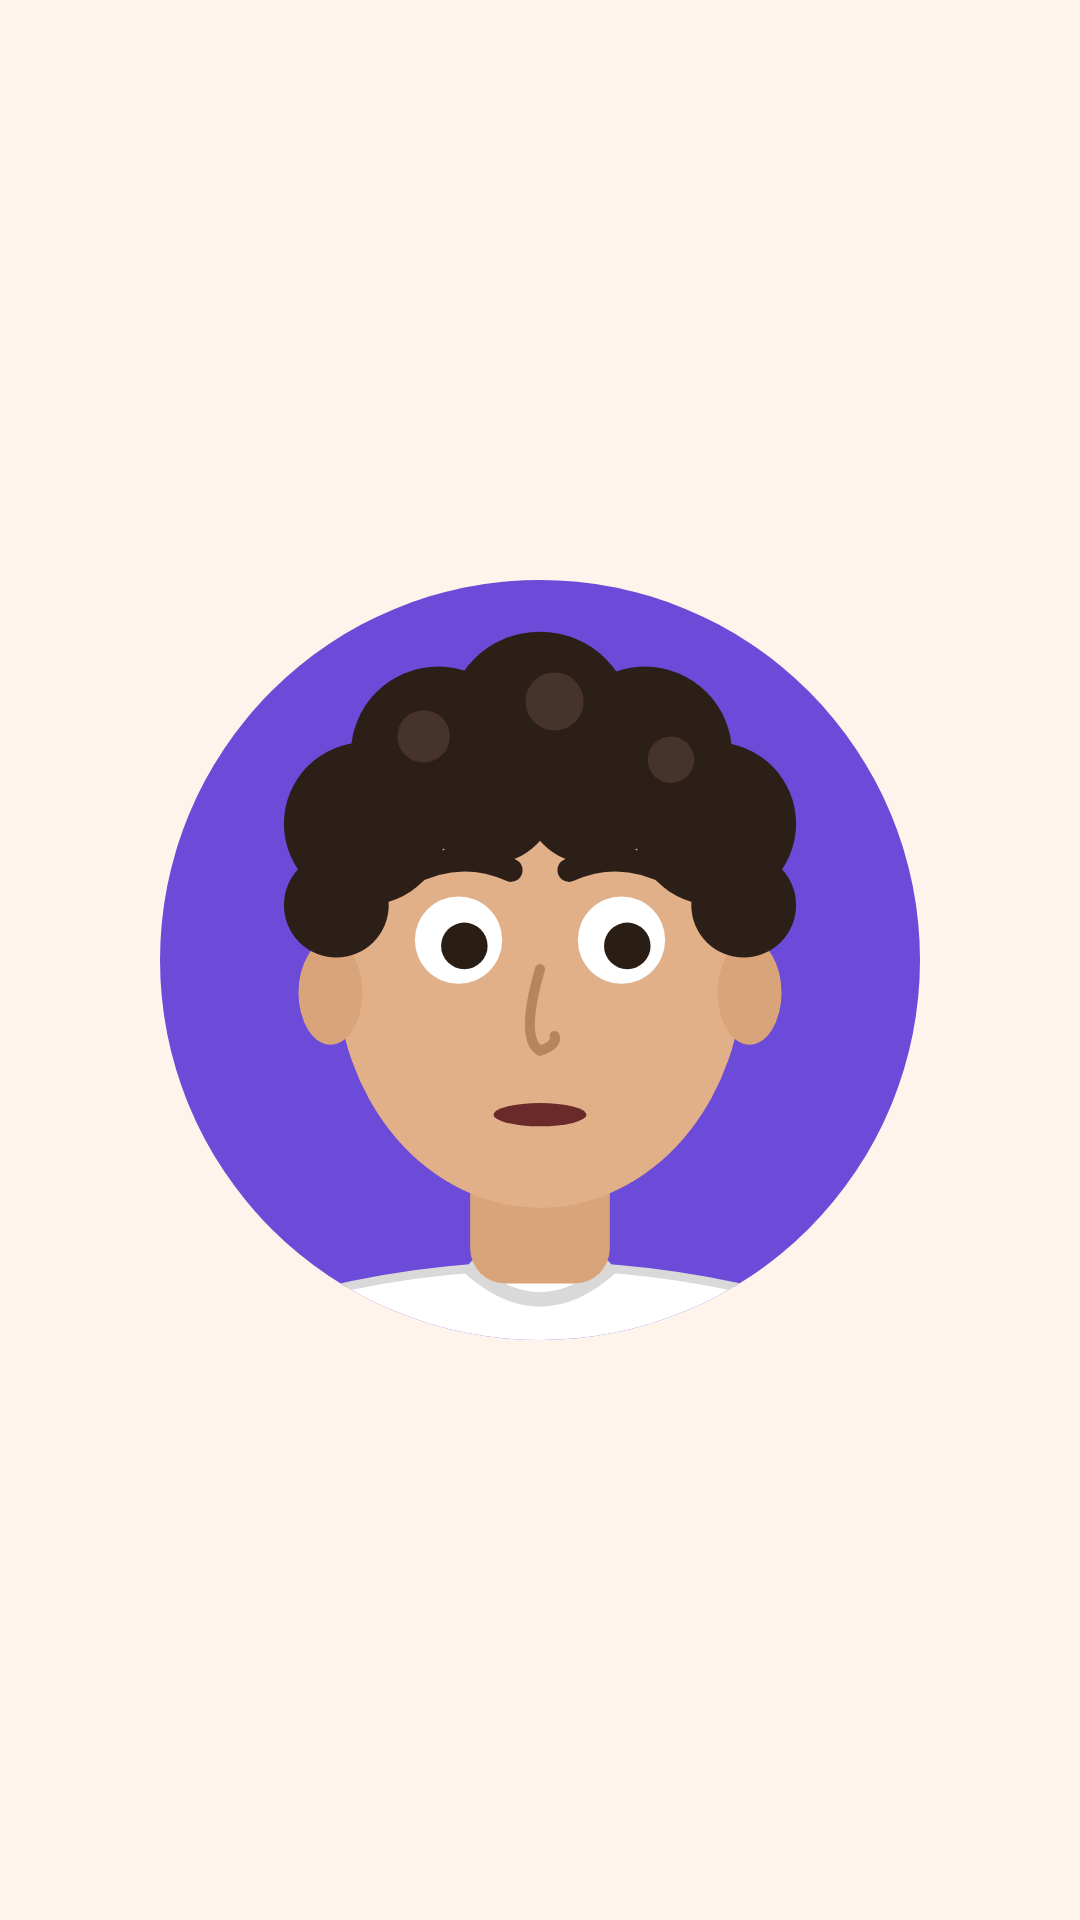
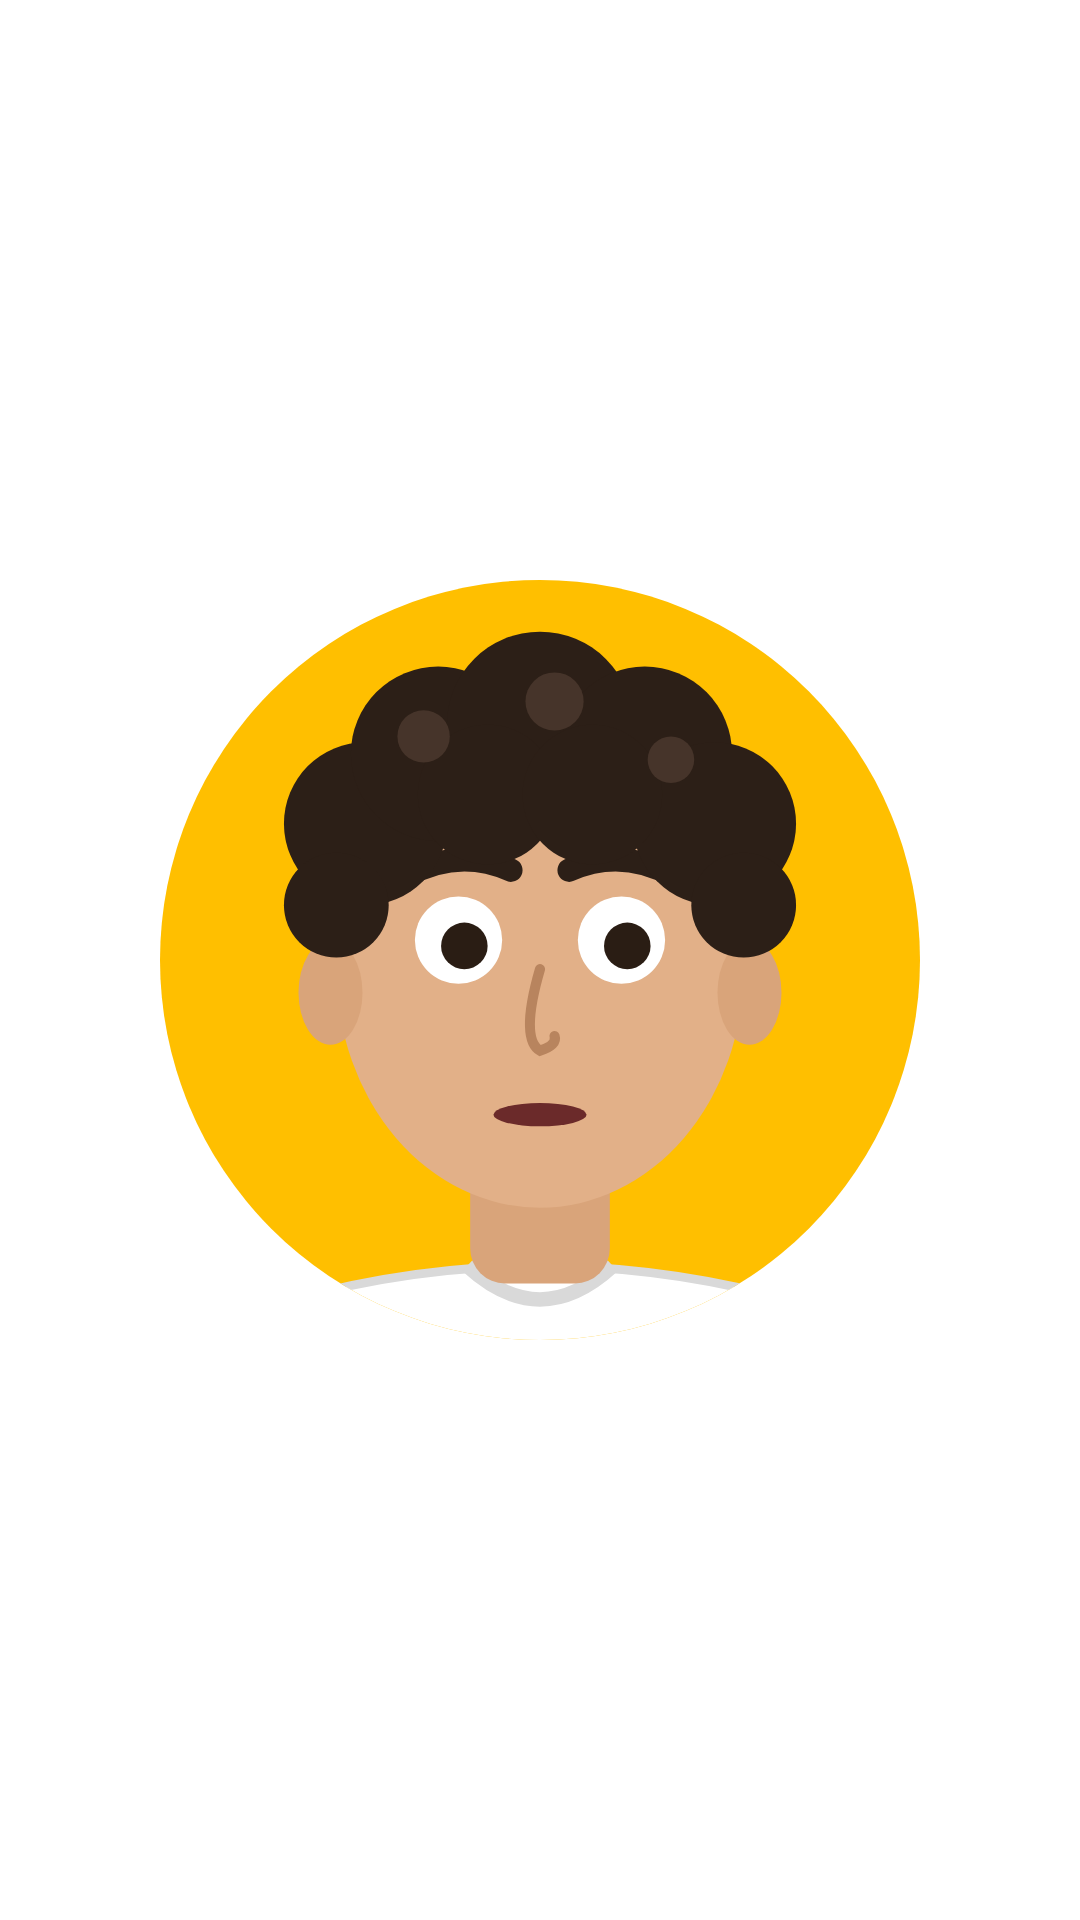
Pagina L'amica che sa tutto: colori del personal brand
Claude-Session: https://claude.ai/code/session_014pNAwoV69TZpDWEUzr7pF6

Changed region(s): [[0.1222, 0.2812, 0.8556, 0.6875]]

diff --git a/contenuti-instagram/18-pagina-amica-che-sa-tutto/brand.html b/contenuti-instagram/18-pagina-amica-che-sa-tutto/brand.html
@@ -1,11 +1,11 @@
 <!doctype html><html><head><meta charset="utf-8"><style>
 @font-face{font-family:Anton;src:url(anton.woff2)}
-:root{--pink:#FF7EB6;--pink2:#FFC2DC;--violet:#6C4BD8;--cream:#FFF4EC;--ink:#1B1B1F}
+:root{--pink:#ffbf00;--pink2:#ffd666;--violet:#0b0b0b;--cream:#ffffff;--ink:#0b0b0b}
 *{margin:0;padding:0;box-sizing:border-box}
 body{font-family:Inter,"Noto Color Emoji",sans-serif;background:#999}
 .x{position:relative;overflow:hidden;margin-bottom:10px}
 .logo{font-family:Anton;text-transform:uppercase;line-height:.95;color:var(--ink)}
-.logo .v{color:var(--violet)}
+.logo .v{background:linear-gradient(180deg,transparent 52%,#ffbf00 52%,#ffbf00 92%,transparent 92%);padding:0 6px}
 .hl{width:1080px;height:1920px;background:var(--cream);display:flex;align-items:center;justify-content:center}
 .hc{width:760px;height:760px;border-radius:50%;display:flex;align-items:center;justify-content:center;flex-direction:column;overflow:hidden;position:relative}
 .hc .em{font-size:300px;line-height:1}
@@ -13,39 +13,39 @@ body{font-family:Inter,"Noto Color Emoji",sans-serif;background:#999}
 </style></head><body>
 
 <!-- PROFILE 1080x1080 -->
-<div id="pf" class="x" style="width:1080px;height:1080px;background:radial-gradient(circle at 50% 45%,var(--pink2) 0,var(--pink) 60%,#f05c9b 100%)">
-  <div style="position:absolute;inset:40px;border-radius:50%;border:22px solid var(--violet)"></div>
+<div id="pf" class="x" style="width:1080px;height:1080px;background:radial-gradient(circle at 50% 45%,#2b2d33 0,#0b0b0b 75%)">
+  <div style="position:absolute;inset:40px;border-radius:50%;border:22px solid #ffbf00"></div>
   <svg id="pfA" style="position:absolute;left:115px;top:150px;overflow:visible" width="850" height="980" viewBox="80 30 240 277"></svg>
-  <div style="position:absolute;right:150px;top:150px;background:#fff;border:8px solid var(--ink);border-radius:40px;padding:14px 30px 20px;font-family:Anton;font-size:92px;color:var(--ink);transform:rotate(8deg)">FIDATI!</div>
+  <div style="position:absolute;right:150px;top:150px;background:#ffbf00;border:8px solid #fff;border-radius:40px;padding:14px 30px 20px;font-family:Anton;font-size:92px;color:var(--ink);transform:rotate(8deg)">FIDATI!</div>
 </div>
 
 <!-- HIGHLIGHTS -->
 <div id="h1" class="x hl"><div class="hc" style="background:var(--violet)"><div class="em">🎬</div><div class="lb">EPISODI</div></div></div>
-<div id="h2" class="x hl"><div class="hc" style="background:var(--pink)"><div class="em" style="font-size:230px">✅❌</div><div class="lb">VERO O FALSO</div></div></div>
-<div id="h3" class="x hl"><div class="hc" style="background:var(--ink)"><div class="em">💬</div><div class="lb" style="color:var(--pink)">IL TUO MITO</div></div></div>
-<div id="h4" class="x hl"><div class="hc" style="background:var(--pink2)"><svg id="hA" style="position:absolute;left:30px;top:40px;overflow:visible" width="700" height="806" viewBox="80 30 240 277"></svg></div></div>
-<div id="h5" class="x hl"><div class="hc" style="background:var(--violet)"><svg id="hM" style="position:absolute;left:30px;top:40px;overflow:visible" width="700" height="806" viewBox="80 30 240 277"></svg></div></div>
+<div id="h2" class="x hl"><div class="hc" style="background:#ffbf00"><div class="em" style="font-size:230px">✅❌</div><div class="lb" style="color:#0b0b0b">VERO O FALSO</div></div></div>
+<div id="h3" class="x hl"><div class="hc" style="background:var(--ink)"><div class="em">💬</div><div class="lb" style="color:#ffbf00">IL TUO MITO</div></div></div>
+<div id="h4" class="x hl"><div class="hc" style="background:#0b0b0b"><svg id="hA" style="position:absolute;left:30px;top:40px;overflow:visible" width="700" height="806" viewBox="80 30 240 277"></svg></div></div>
+<div id="h5" class="x hl"><div class="hc" style="background:#ffbf00"><svg id="hM" style="position:absolute;left:30px;top:40px;overflow:visible" width="700" height="806" viewBox="80 30 240 277"></svg></div></div>
 
 <!-- BRAND SHEET 1080x1350 -->
-<div id="bs" class="x" style="width:1080px;height:1350px;background:var(--cream)">
-  <div style="position:absolute;left:60px;top:60px;font-weight:800;font-size:24px;letter-spacing:5px;color:var(--violet)">IDENTITÀ DELLA PAGINA</div>
+<div id="bs" class="x" style="width:1080px;height:1350px;background:#f4f4f4">
+  <div style="position:absolute;left:60px;top:60px;font-weight:800;font-size:24px;letter-spacing:5px;color:#0b0b0b;background:#ffbf00;padding:6px 12px;border-radius:6px">IDENTITÀ DELLA PAGINA</div>
   <div class="logo" style="position:absolute;left:60px;top:110px;font-size:120px">L'amica<br>che sa <span class="v">tutto</span> 🤓</div>
   <div style="position:absolute;left:60px;top:370px;font-size:34px;font-weight:700;color:var(--ink)">@lamicachesatutto</div>
   <div style="position:absolute;left:60px;top:440px;display:flex;gap:18px">
-    <div style="text-align:center;font-size:20px;font-weight:700"><div style="width:130px;height:130px;border-radius:24px;background:#FF7EB6"></div>Rosa<br>#FF7EB6</div>
-    <div style="text-align:center;font-size:20px;font-weight:700"><div style="width:130px;height:130px;border-radius:24px;background:#6C4BD8"></div>Viola<br>#6C4BD8</div>
-    <div style="text-align:center;font-size:20px;font-weight:700"><div style="width:130px;height:130px;border-radius:24px;background:#FFF4EC;border:3px solid #ddd"></div>Crema<br>#FFF4EC</div>
-    <div style="text-align:center;font-size:20px;font-weight:700"><div style="width:130px;height:130px;border-radius:24px;background:#1B1B1F"></div>Inchiostro<br>#1B1B1F</div>
+    <div style="text-align:center;font-size:20px;font-weight:700"><div style="width:130px;height:130px;border-radius:24px;background:#ffbf00"></div>Giallo<br>#FFBF00</div>
+    <div style="text-align:center;font-size:20px;font-weight:700"><div style="width:130px;height:130px;border-radius:24px;background:#0b0b0b"></div>Nero<br>#0B0B0B</div>
+    <div style="text-align:center;font-size:20px;font-weight:700"><div style="width:130px;height:130px;border-radius:24px;background:#ffffff;border:3px solid #ddd"></div>Bianco<br>#FFFFFF</div>
+    <div style="text-align:center;font-size:20px;font-weight:700"><div style="width:130px;height:130px;border-radius:24px;background:#ff3b3b"></div>Rosso (FALSO)<br>#FF3B3B</div>
   </div>
   <div style="position:absolute;left:720px;top:440px;width:300px;font-size:22px;line-height:1.4;color:#444"><b style="font-family:Anton;font-size:40px;color:var(--ink);font-weight:400">ANTON</b><br>titoli<br><b style="font-size:34px;color:var(--ink)">Inter</b><br>testi e fumetti</div>
   <svg id="bsS" style="position:absolute;left:20px;top:690px;overflow:visible" width="300" height="600" viewBox="0 0 400 800"></svg>
   <svg id="bsA" style="position:absolute;left:370px;top:660px;overflow:visible" width="320" height="640" viewBox="0 0 400 800"></svg>
   <svg id="bsM" style="position:absolute;left:700px;top:620px;overflow:visible" width="340" height="680" viewBox="0 0 400 800"></svg>
-  <div style="position:absolute;left:0;right:0;top:1290px;display:flex;justify-content:space-around;font-family:Anton;font-size:30px;color:var(--ink)"><span>SOFIA</span><span style="color:var(--violet)">L'AMICA CHE SA TUTTO</span><span>MATTIA</span></div>
+  <div style="position:absolute;left:0;right:0;top:1290px;display:flex;justify-content:space-around;font-family:Anton;font-size:30px;color:var(--ink)"><span>SOFIA</span><span style="background:#ffbf00;padding:0 8px">L'AMICA CHE SA TUTTO</span><span>MATTIA</span></div>
 </div>
 <script src="chars.js"></script>
 <script>
-const AM=Object.assign({},CHARS.giulia,{topC:'#FF7EB6',topLine:'#e95f9c',pants:'#3a2d6b',glasses:'#6C4BD8',logo:false});
+const AM=Object.assign({},CHARS.giulia,{topC:'#ffbf00',topLine:'#e0a800',pants:'#1d1f24',glasses:'#0b0b0b',logo:false});
 const MA=Object.assign({},CHARS.mattia,{logo:false});
 const SO=Object.assign({},CHARS.sofia);
 const put=(id,p,c,o)=>{document.getElementById(id).innerHTML=charSVG(p,c);poseChar(p,Object.assign({uL:8,uR:-8,mouth:5},o||{}));};

diff --git a/contenuti-instagram/18-pagina-amica-che-sa-tutto/README.md b/contenuti-instagram/18-pagina-amica-che-sa-tutto/README.md
@@ -13,11 +13,11 @@ Ruolo: intrattenimento educativo con personaggi animati, per farsi scoprire.
 > 💪 Risponde @mattialardiello, personal trainer
 > 👇 Mandaci il consiglio più assurdo che hai sentito
 
-## Identità grafica (diversa da ML LAB)
-- Rosa #FF7EB6 · Viola #6C4BD8 · Crema #FFF4EC · Inchiostro #1B1B1F
+## Identità grafica (stessi colori del personal brand, per essere riconoscibile)
+- Giallo #FFBF00 · Nero #0B0B0B · Bianco #FFFFFF · Rosso #FF3B3B solo per il timbro FALSO
 - Font: Anton (titoli), Inter (testi e fumetti)
-- L'Amica: bionda con coda, occhiali viola, top rosa, leggings viola. Frase tipica: "Fidati!"
-- Nessun logo ML LAB su personaggi e sfondi.
+- L'Amica: bionda con coda, occhiali neri, top giallo, leggings neri. Frase tipica: "Fidati!"
+- Niente logo/scritta ML LAB su personaggi e sfondi: il collegamento è dato dai colori e da "Risponde @mattialardiello".
 
 ## File
 - `foto-profilo.png` (1080×1080, area sicura nel cerchio)
